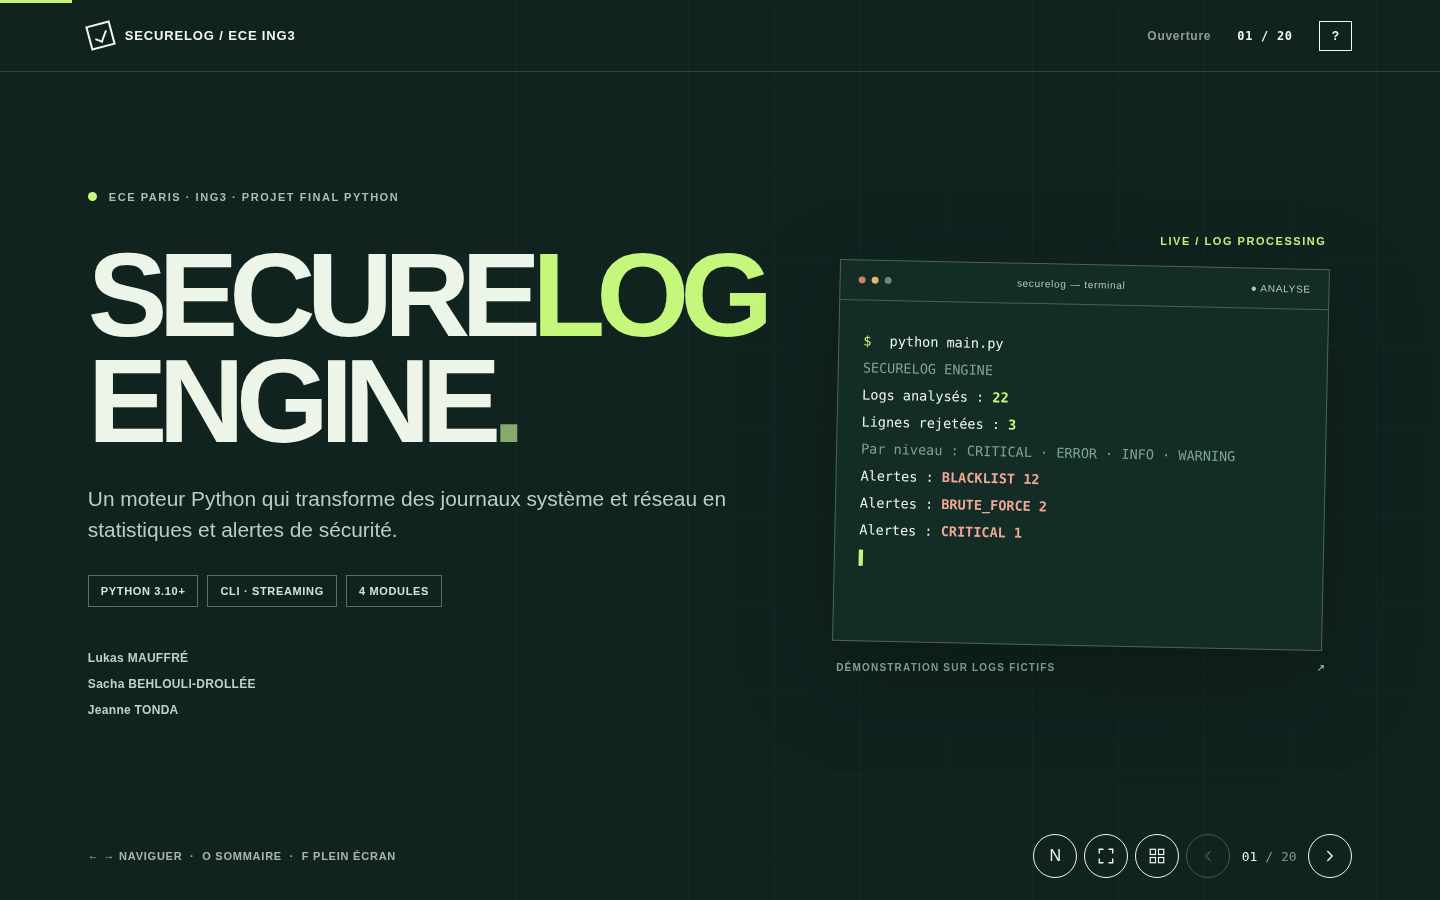
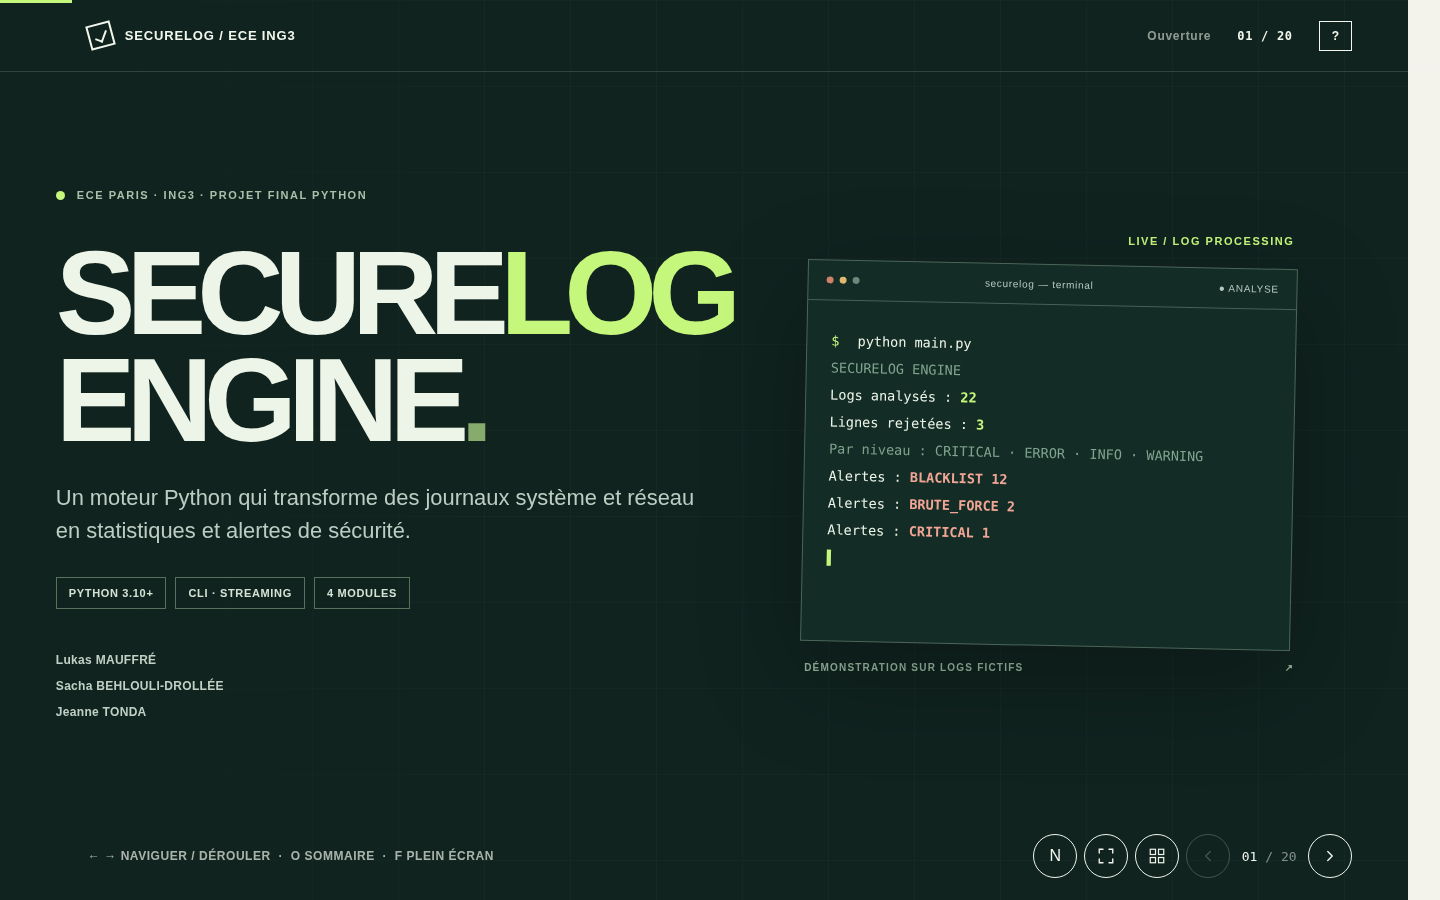
style: refine presentation layout for different screens
Improve slide spacing and readability for projectors, and prevent horizontal shifting on mobile.

Update the preview, usage instructions, and validation notes.

diff --git a/index.html b/index.html
@@ -132,6 +132,85 @@
 }
 @media(prefers-reduced-motion:reduce){.demo-terminal .evt.step-new,.demo-alert-block.alert-flash{animation:none!important}}
 @media print{.demo-stage{height:auto;min-height:340px}.demo-keyboard{display:none!important}}
+
+/* =====================================================================
+   REVISION 3 — editorial balance, without content inflation
+   Design guidance: Leonxlnx/taste-skill 2.5.1, layout-v4/system/motion.
+   One slide per viewport; equal content edges; balanced negative space;
+   cards follow content; avoid motion that distracts from demonstration.
+   ===================================================================== */
+/* Unlike overflow:hidden, clip cannot create a horizontal scroll position
+   when the browser targets a slide hash on a narrow display. Each slide
+   itself remains vertically scrollable. */
+.app { overflow: clip; }
+/* Keep the original single palette and grid, but allow a second optical
+   rhythm for slides with short content. Auto margins distribute only truly
+   available space. When a screen is short, they collapse to zero so nothing
+   is cut off from the top. */
+@media (min-width: 1000px) {
+  :is(#slide-3,#slide-4,#slide-5,#slide-8,#slide-11,#slide-12,#slide-13,#slide-14,#slide-15,#slide-17,#slide-18,#slide-19)
+    .slide-inner > :first-child:not(.notes-text) { margin-top: auto; }
+  :is(#slide-3,#slide-4,#slide-5,#slide-8,#slide-11,#slide-12,#slide-13,#slide-14,#slide-15,#slide-17,#slide-18,#slide-19)
+    .slide-inner > :nth-last-child(2) { margin-bottom: auto; }
+}
+/* The code / process sequence gains enough substance to sit comfortably,
+   without filling the full height of a slide. Code stays readable at rest. */
+@media (min-width: 1200px) and (min-height: 780px) {
+  #slide-8 .func-columns { min-height: 352px; max-height: 365px; }
+  #slide-8 .func-card { padding: 25px 25px 23px; }
+  #slide-8 .func-code { margin: 20px 0 14px; padding: 18px 17px; }
+  #slide-8 .func-card p { font-size: 17px; line-height: 1.52; }
+  #slide-11 .rules-stage { min-height: 352px; max-height: 385px; }
+  #slide-14 .result-layout { min-height: 346px; max-height: 376px; }
+  #slide-19 .limitations > div:not(:first-child),
+  #slide-19 .improvements > div:not(:first-child) { padding: 15px 0; }
+  #slide-19 .roadmap-layout span { font-size: 16px; line-height: 1.45; }
+}
+/* Projection legibility: keep the smaller *content* type clear; do not grow
+   the main headlines so much they overwhelm the evidence on the slide. */
+@media (min-width: 1200px) {
+  #slide-11 .rules-stage p,
+  #slide-18 .challenge-grid p { line-height: 1.52; }
+  #slide-18 .challenge .solution { font-size: 15px; line-height: 1.48; }
+  #slide-17 .mem-columns small { font-size: 14px; }
+  #slide-17 .mem-caption { font-size: 14px; }
+}
+/* At a 1024px classroom projector, the test slide's title had four lines
+   and went under the fixed footer. Give the heading an appropriate measure. */
+@media (min-width: 1000px) and (max-width: 1170px) {
+  #slide-16 .validation-layout { grid-template-columns: .98fr 1.02fr; gap: 38px; }
+  #slide-16 .validation-layout .headline { font-size: clamp(39px, 4vw, 49px); line-height: 1.02; }
+}
+/* Under low projector heights, conserve footer clearance on dense pages. */
+@media (min-width: 1000px) and (max-height: 750px) {
+  #slide-8 .func-card { padding: 15px 18px; }
+  #slide-8 .func-code { margin: 15px 0; padding: 12px; min-height: 125px; }
+  #slide-17 .mem-columns { min-height: 155px; }
+  #slide-19 .limitations > div:not(:first-child),
+  #slide-19 .improvements > div:not(:first-child) { padding: 10px 0; }
+}
+/* Keep the closing and brute-force slide clear of the fixed navigation at
+   1280×720 projector resolution. Shrink margins before shrinking type. */
+@media (min-width: 1000px) and (max-height: 750px) {
+  #slide-3 .mode-card { padding: 19px 24px; }
+  #slide-3 .mode-icon { height: 62px; }
+  #slide-12 .brute-panel { min-height: 260px; max-height: 272px; padding: 8px 20px; }
+  #slide-12 .identity-row { padding: 10px 0; }
+  #slide-12 .loop-footer { margin-top: 13px; }
+  #slide-12 .loop-footer div { padding-top: 9px; }
+  #slide-20 .closing-title { font-size: clamp(64px, 6.6vw, 91px); margin: 20px 0 18px; }
+  #slide-20 .closing-lead { font-size: clamp(17px, 1.35vw, 21px); }
+  #slide-20 .closing-lower { margin-top: 25px; padding-top: 16px; }
+  #slide-20 .closing-bottom { margin-top: 21px; }
+}
+@media print {
+  /* Print renders full slides even though in the live experience the overall
+     group is optically centered. Disable auto margins for deterministic PDF. */
+  :is(#slide-3,#slide-4,#slide-5,#slide-8,#slide-11,#slide-12,#slide-13,#slide-14,#slide-15,#slide-17,#slide-18,#slide-19)
+    .slide-inner > :first-child:not(.notes-text) { margin-top: 0; }
+  :is(#slide-3,#slide-4,#slide-5,#slide-8,#slide-11,#slide-12,#slide-13,#slide-14,#slide-15,#slide-17,#slide-18,#slide-19)
+    .slide-inner > :nth-last-child(2) { margin-bottom: 0; }
+}
 </style></head>
 <body><div class="app" id="top"><div class="progress" id="progress"></div><header class="topbar"><div class="brand"><span class="brand-icon" aria-hidden="true"></span> SECURELOG / ECE ING3</div><div class="bar-right"><span class="bar-chapter" id="head-chapter">OUVERTURE</span><span class="top-counter" id="head-number">01 / 20</span><button id="help-trigger" type="button" class="bar-action" aria-label="Afficher les raccourcis">?</button></div></header><main id="deck"><section class="slide dark " id="slide-1" data-title="SecureLog Engine" data-chapter="Ouverture" aria-label="Diapositive 1: SecureLog Engine"><div class="slide-inner">
 <div class="cover-grid">
@@ -461,6 +540,7 @@ const stream=[
     document.querySelectorAll('.overview-item').forEach((e,k) => e.classList.toggle('active', idx === k));
     notes.querySelector('p').textContent = slides[idx].querySelector('.notes-text').textContent;
     history.replaceState(null, '', '#slide-' + (idx+1));
+    document.getElementById('top').scrollLeft = 0;
     document.title = titles[idx] + ' · SecureLog Engine — 20 slides';
     updateProgress();
   }

diff --git a/VALIDATION.md b/VALIDATION.md
@@ -1,0 +1,17 @@
+# Vérifications — présentation SecureLog Engine V3
+
+- 20 diapositives et 20 sections de notes d’orateur conservées.
+- Contenu textuel des diapositives identique à la version V2.
+- Aucun script ni CSS externe nécessaire à l’ouverture du fichier.
+- Syntaxe JavaScript vérifiée avec Node.js.
+- Déroulement au clavier de la slide 13 : huit étapes, retour en arrière,
+  navigation au-delà de la démo, raccourcis Home/End et boutons généraux
+  vérifiés par les tests unitaires fournis avec la version V2.
+- Captures et inspection du rendu faites avec Chromium à 1440×900, 1280×720,
+  1024×768 et 390×844. Correctifs ciblés à 720p et contre le décalage
+  latéral sur mobile.
+- Le dernier test exhaustif supplémentaire a été interrompu par l’outil
+  navigateur ; il n’a pas été compté comme une validation réussie.
+- Application des principes de mise en page et de mouvement du Taste Skill
+  (Leonxlnx/taste-skill, sections layout-v4, system et motion), adaptés
+  au format diaporama. Le gate officiel du dépôt n’a pas été exécuté.
